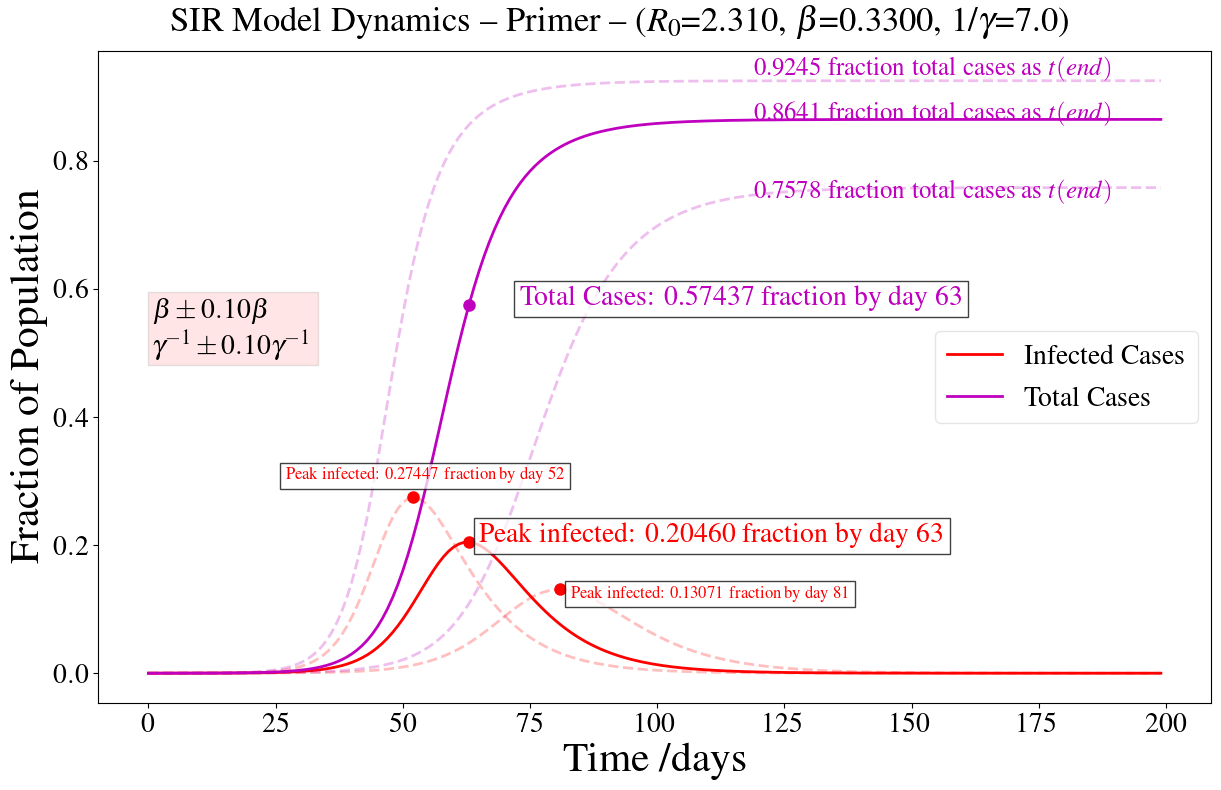
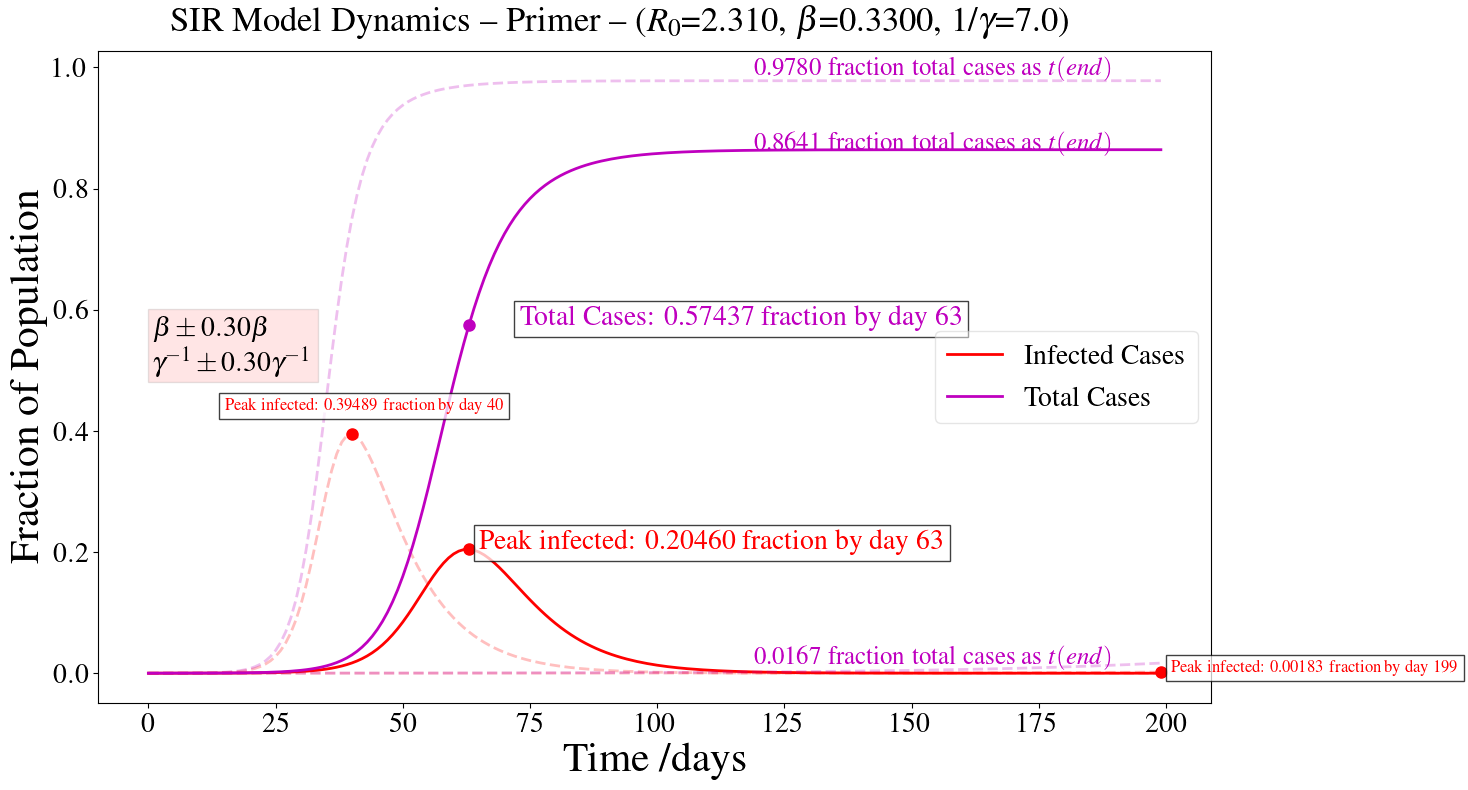
updates

diff --git a/ex1b_sensitivityVariation_vanillaSIR_model.py b/ex1b_sensitivityVariation_vanillaSIR_model.py
@@ -87,14 +87,14 @@ def run_SIR_wErrors(beta_samples, gamma_inv_samples, text_error, **kwargs):
         kwargs['r0']        = beta_samples[ii]*gamma_inv_samples[ii]
         S,I,R,T             = run_SIR(**kwargs)
 
-        print('*********   Results    *********')    
-        tc, t_I100, t_I500, t_I100, t_I10 = getCriticalPointsAfterPeak(I)
-        T_tc  = T[tc]
-        print('Total Cases @ Peak = ', T_tc,'by day=', tc)
-        Peak_infected     = I[-1]
-        print('Infected @ tc = ', Peak_infected)
-        total_cases     = T[-1]
-        print('Total Cases @ t(end) = ', total_cases)
+        # print('*********   Results    *********')    
+        # tc, t_I100, t_I500, t_I100, t_I10 = getCriticalPointsAfterPeak(I)
+        # T_tc  = T[tc]
+        # print('Total Cases @ Peak = ', T_tc,'by day=', tc)
+        # Peak_infected     = I[-1]
+        # print('Infected @ tc = ', Peak_infected)
+        # total_cases     = T[-1]
+        # print('Total Cases @ t(end) = ', total_cases)
 
         # Storing run in matrix for post-processing
         S_samples[ii,:] = S
@@ -138,7 +138,7 @@ def main():
     gamma_inv  = sim_kwargs['gamma_inv']
 
     # Variables for +/- errors on beta
-    error_perc        = 10
+    error_perc        = 30
     err               = error_perc/100
     
     ########### Test 1: Vary beta, fix gamma ############

diff --git a/ex1c_sensitivitySampling_vanillaSIR_model.py b/ex1c_sensitivitySampling_vanillaSIR_model.py
@@ -103,7 +103,6 @@ def run(prob_type = 'gamma'):
     viz_plots = 0
 
     for test_num in [1, 2, 3]:
-    # for test_num in [1]:
         prob_params, plot_vars        = getSIRTestingParams(test_num=test_num, prob_type=prob_type,**sim_kwargs)
         
         # unpack plotting and file variables
